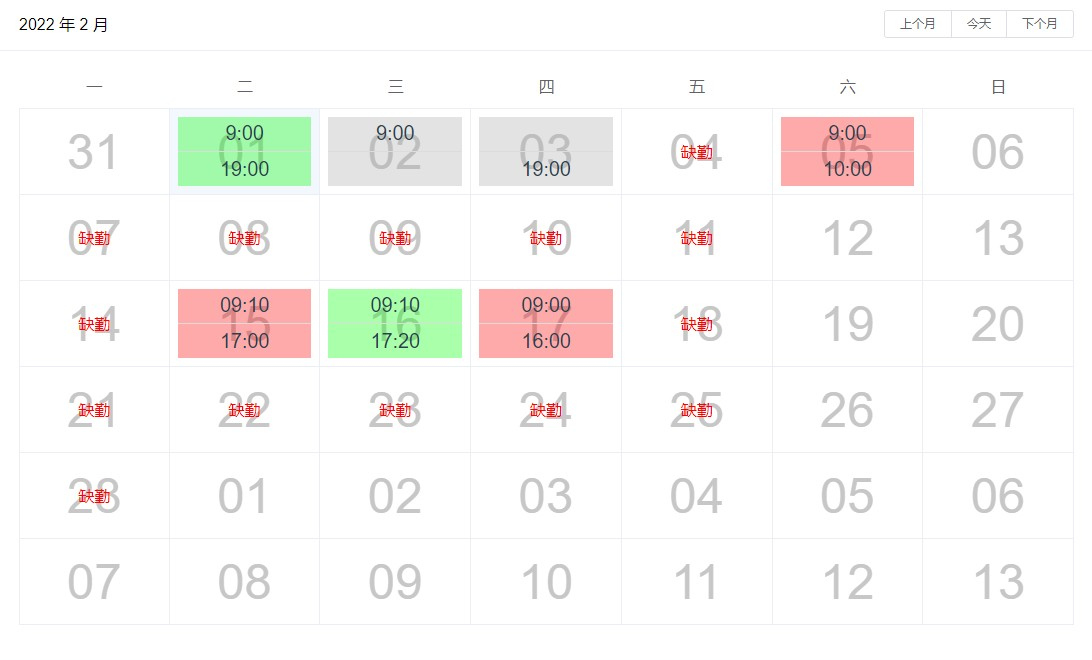
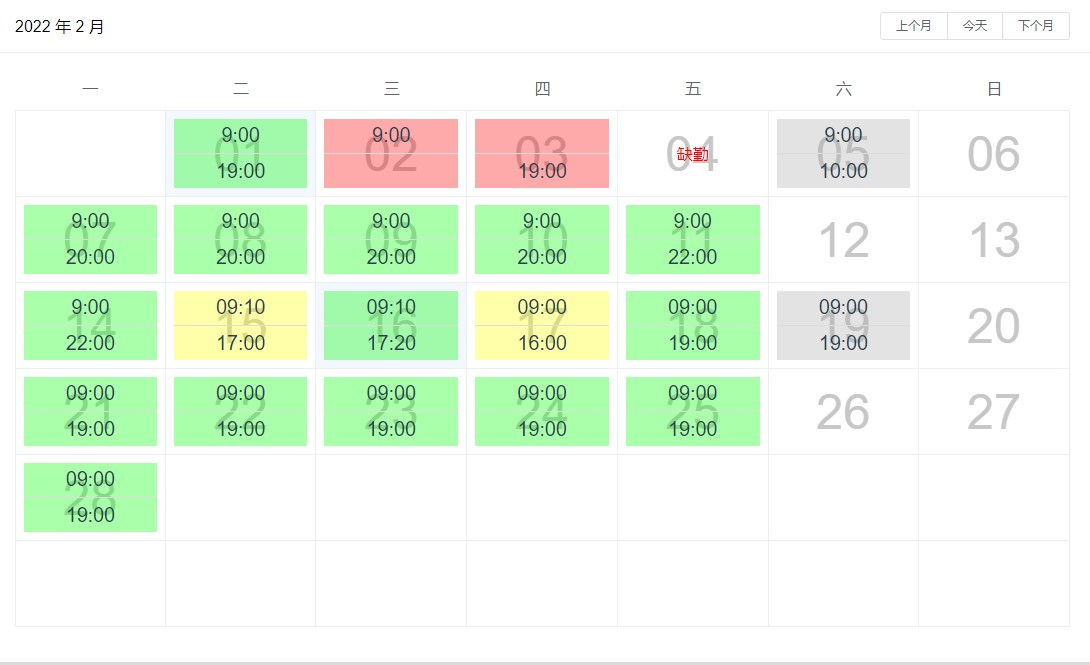
1.支持设置工作时间，2周六日不标红

diff --git a/src/lib/AttendanceCalendar.vue b/src/lib/AttendanceCalendar.vue
@@ -7,14 +7,14 @@
           slot-scope="{date, data}">
           <div style="position: relative; width: 100%; height: 100%">
             <div class="center date">
-              {{data.day.split('-')[2]}}
+              {{ (date.getMonth() + 1 == options.month.split('-')[1]) ? data.day.split('-')[2] : ''}}
             </div>
             <div class="item">
               <div class="null center" v-if="!options.records[data.day] || (!options.records[data.day].start_time && !options.records[data.day].end_time)">
                 {{ (date.getDay() % 7 == 6 || date.getDay() % 7 == 0 || date.getMonth() + 1 != options.month.split('-')[1]) ? '':'缺勤'}}
               </div>
               <div class="attendance" v-else
-                   :style="'background:' + getAttendance(options.records[data.day].start_time,options.records[data.day].end_time)">
+                   :style="'background:' + getAttendance(options.records[data.day].start_time,options.records[data.day].end_time,date)">
                 <div class="center time start">{{options.records[data.day].start_time}}</div>
                 <div class="center time end">{{options.records[data.day].end_time}}</div>
               </div>
@@ -39,6 +39,10 @@
             options:{
                 type: Object,
                 required: true
+            },
+            worktime:{
+              type: Number,
+              required: true
             }
         },
 
@@ -48,14 +52,17 @@
             let m = endTime.split(':')[1] - startTime.split(':')[0];
             return h * 60 + m
           },
-          getAttendance(start, end){
+          getAttendance(start, end, date){
             if(!start || !end){
+              return '#ff000055'
+            }
+            if(date.getDay() % 7 == 0 || date.getDay() % 7 == 6){
               return '#aaaaaa55'
             }
-            if (this.getDiffTime(start, end) >= 8 * 60){
+            if (this.getDiffTime(start, end) >= this.worktime * 60){
               return '#00ff0055'
             }else{
-              return '#ff000055'
+              return '#ffff0055'
             }
           }
         },

diff --git a/src/examples/components/HelloWorld.vue b/src/examples/components/HelloWorld.vue
@@ -1,7 +1,7 @@
 <template>
 
   <div style="width: 60vw;">
-      <attendance-calendar ref="ac" :options="options"/>
+      <attendance-calendar ref="ac" :worktime="8" :options="options"/>
   </div>
 
 </template>
@@ -19,9 +19,23 @@ export default {
           '2022-02-03': {start_time: '', end_time: '19:00'},
           '2022-02-04': {start_time: '', end_time: ''},
           '2022-02-05': {start_time: '9:00', end_time: '10:00'},
+          '2022-02-07': {start_time: '9:00', end_time: '20:00'},
+          '2022-02-08': {start_time: '9:00', end_time: '20:00'},
+          '2022-02-09': {start_time: '9:00', end_time: '20:00'},
+          '2022-02-10': {start_time: '9:00', end_time: '20:00'},
+          '2022-02-11': {start_time: '9:00', end_time: '22:00'},
+          '2022-02-14': {start_time: '9:00', end_time: '22:00'},
           '2022-02-15': {start_time: '09:10', end_time: '17:00'},
           '2022-02-16': {start_time: '09:10', end_time: '17:20'},
           '2022-02-17': {start_time: '09:00', end_time: '16:00'},
+          '2022-02-18': {start_time: '09:00', end_time: '19:00'},
+          '2022-02-19': {start_time: '09:00', end_time: '19:00'},
+          '2022-02-21': {start_time: '09:00', end_time: '19:00'},
+          '2022-02-22': {start_time: '09:00', end_time: '19:00'},
+          '2022-02-23': {start_time: '09:00', end_time: '19:00'},
+          '2022-02-24': {start_time: '09:00', end_time: '19:00'},
+          '2022-02-25': {start_time: '09:00', end_time: '19:00'},
+          '2022-02-28': {start_time: '09:00', end_time: '19:00'},
         }
       }
     }

diff --git a/readme.md b/readme.md
@@ -22,7 +22,8 @@ Vue.use(AttendanceCalendar)
 
 组件属性
 ```
-options [object] 考勤数据;
+worktime: 正常考勤需要的工作时间(单位:h) 如: 8 
+options: [object] 考勤数据;
 -- month: [string] 月份; 如: 2022-02
 -- records: [object] 考勤记录; 如:
         {
